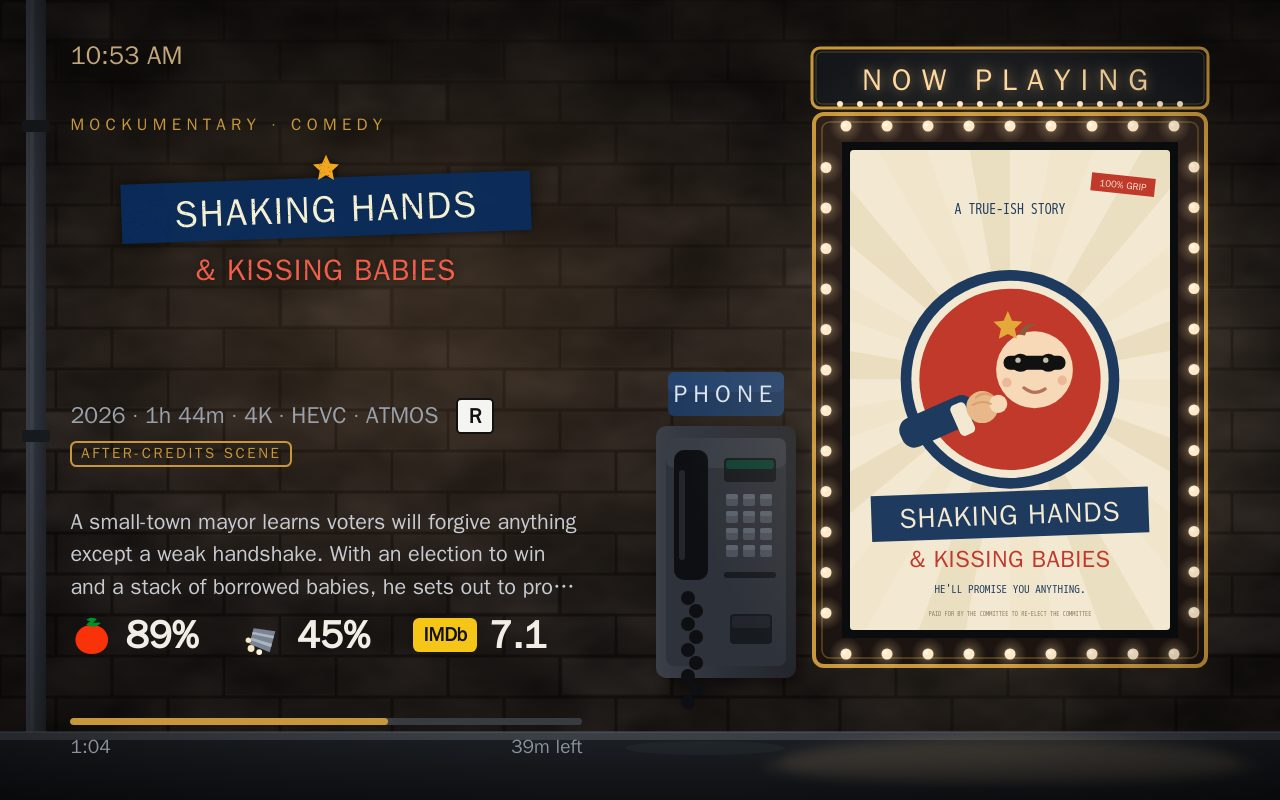
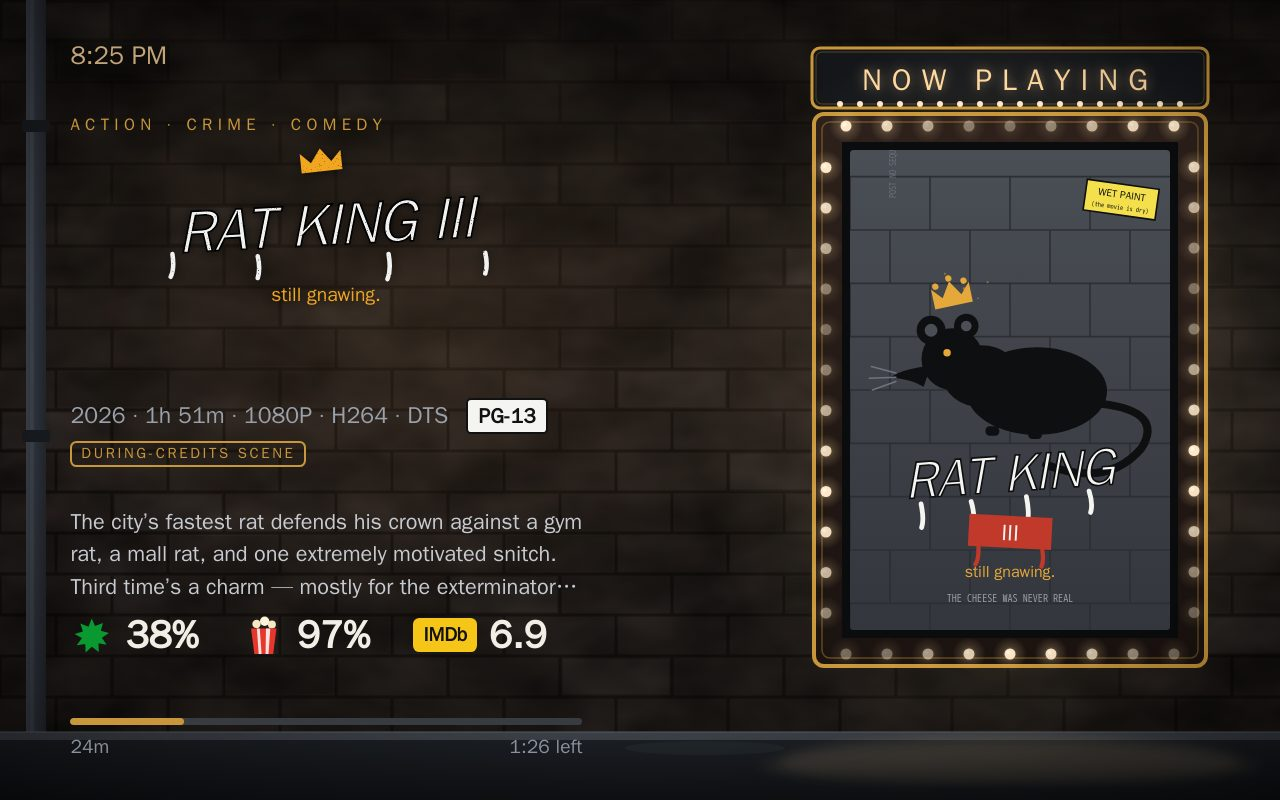
Card-wide font setting, mobile-friendly settings, variety collage
Card font joins Title font in Look — pick a face for everything (plot,
metadata, clock), with per-element size already covered by the block
editor's Size slider. Settings now behaves on phones: no horizontal
overflow, controls wrap under their labels, template grid tightens, and
the save/actions bar goes full-width. Demo pinning (?demo=N) holds
through the rotation timer again. README leads with a 3x3 variety
collage — templates x themes x fonts — and street.jpg is reshot without
the pay phone.

diff --git a/cast/settings.html b/cast/settings.html
@@ -159,12 +159,24 @@
   }
   .controls .panel { margin-bottom: 18px; }
 
+  body { overflow-x: hidden; }
+  .layout, .controls, .preview-col, .panel { min-width: 0; }
   @media (max-width:760px) { .wrap { padding:20px 14px 44px; }
     .top { align-items:flex-start; flex-direction:column; }
     .panel { min-width:0; width:100%; box-sizing:border-box; }
-    .row { align-items:flex-start; }
+    .tpl-grid { grid-template-columns: repeat(auto-fill, minmax(140px, 1fr)); }
+    .tpl small { display:none; }
+    .row { align-items:flex-start; flex-wrap:wrap; row-gap:8px; }
+    .row label { flex: 1 1 100%; }
+    .row > *:not(label) { margin-left:auto; }
+    .devpick, .swatches, .vibes-step { max-width:100%; flex-wrap:wrap;
+      justify-content:flex-end; }
+    .devpick select, select.mini, input.mini { max-width:100%; }
+    .sessions-list { text-align:left; }
     .editor { grid-template-columns:1fr; }
-    .actions { align-items:stretch; flex-direction:column; } }
+    .sliders { grid-template-columns:1fr; }
+    .actions { align-items:stretch; flex-direction:column; }
+    .actions .save, .actions .secondary { width:100%; } }
 </style>
 <div class="wrap">
   <div class="top"><h1>Marquee <span>settings</span></h1>
@@ -226,6 +238,16 @@
     </div>
     <div class="row"><label>Title font<small>Free Google fonts; falls back to system offline</small></label>
       <select id="font" class="mini">
+        <option value="system">System</option>
+        <option value="bebas">Bebas Neue</option>
+        <option value="oswald">Oswald</option>
+        <option value="playfair">Playfair Display</option>
+        <option value="cinzel">Cinzel</option>
+        <option value="grotesk">Space Grotesk</option>
+      </select>
+    </div>
+    <div class="row"><label>Card font<small>Everything else: plot, metadata, clock. Size per element lives in the block editor below.</small></label>
+      <select id="bodyfont" class="mini">
         <option value="system">System</option>
         <option value="bebas">Bebas Neue</option>
         <option value="oswald">Oswald</option>
@@ -398,6 +420,9 @@
   $('#font').addEventListener('change', () => {
     cfg.titleFont = $('#font').value; sendCfg();
     $('#status').textContent = 'Title font changed — save to apply.'; });
+  $('#bodyfont').addEventListener('change', () => {
+    cfg.bodyFont = $('#bodyfont').value; sendCfg();
+    $('#status').textContent = 'Card font changed — save to apply.'; });
   document.querySelectorAll('#align button').forEach(b => b.addEventListener('click', () => {
     segSet('align', b.dataset.v);
     $('#frame').contentWindow.postMessage(
@@ -507,6 +532,7 @@
     });
     if (cfg.accent) $('#accent').value = cfg.accent;
     $('#font').value = cfg.titleFont || 'system';
+    $('#bodyfont').value = cfg.bodyFont || 'system';
     $('#users').value = cfg.plexUsers || '';
     $('#devices').value = cfg.plexDevices || '';
     $('#zip').value = cfg.weatherZip || '';

diff --git a/output/index.html b/output/index.html
@@ -514,7 +514,8 @@
   const demoM = () => DEMOS[demoIdx];
   // Pure demo mode (no editor) rotates through the reel; the settings
   // preview keeps one film per load so the block editor stays stable.
-  if (DEMO && !EDIT) setInterval(() => { demoIdx = (demoIdx + 1) % DEMOS.length; }, 20000);
+  if (DEMO && !EDIT && !(Number.isInteger(demoPick) && DEMOS[demoPick]))
+    setInterval(() => { demoIdx = (demoIdx + 1) % DEMOS.length; }, 20000);
 
   // ── The Street scene: brick wall, pay phone, bulb-lit marquee frame ──
   // Drawn once at 1280x800; the poster block overlays the frame opening
@@ -640,6 +641,8 @@ ${bulbs.join('')}
     }
     if (FONTS[c.titleFont]) root.setProperty('--title-font', FONTS[c.titleFont]);
     else root.removeProperty('--title-font');
+    if (FONTS[c.bodyFont]) root.setProperty('--font', FONTS[c.bodyFont]);
+    else root.removeProperty('--font');
 
     const tpl = TEMPLATES.includes(c.template) ? c.template : 'spotlight';
     document.body.dataset.template = tpl;

diff --git a/cast/cast.py b/cast/cast.py
@@ -65,6 +65,7 @@ DEFAULT_SETTINGS = {
     "theme": "amber",
     "accent": "",
     "titleFont": "system",
+    "bodyFont": "system",
     "posterSide": "right",
     "clockFormat": "12h",
     "clockSeconds": False,
@@ -460,6 +461,8 @@ class WebHandler(BaseHTTPRequestHandler):
                 merged["clockFormat"] = "12h"
             if merged["titleFont"] not in TITLE_FONTS:
                 merged["titleFont"] = "system"
+            if merged["bodyFont"] not in TITLE_FONTS:
+                merged["bodyFont"] = "system"
             for k in ("plexUsers", "plexDevices", "weatherZip"):
                 if not isinstance(merged[k], str):
                     merged[k] = ""

diff --git a/README.md b/README.md
@@ -9,7 +9,9 @@
 
 Marquee turns a Google Nest Hub into a clean Plex now-playing display. It shows artwork, title, plot, genres, ratings, media details, progress, and a clock, then returns the Hub to ambient mode when playback stops.
 
-![Marquee Split template](docs/screenshots/split.jpg)
+![One app, many looks — templates × themes × fonts](docs/screenshots/variety.jpg)
+
+*Same app, nine looks: six templates × eight themes × six fonts × any accent color.*
 
 ## Templates
 